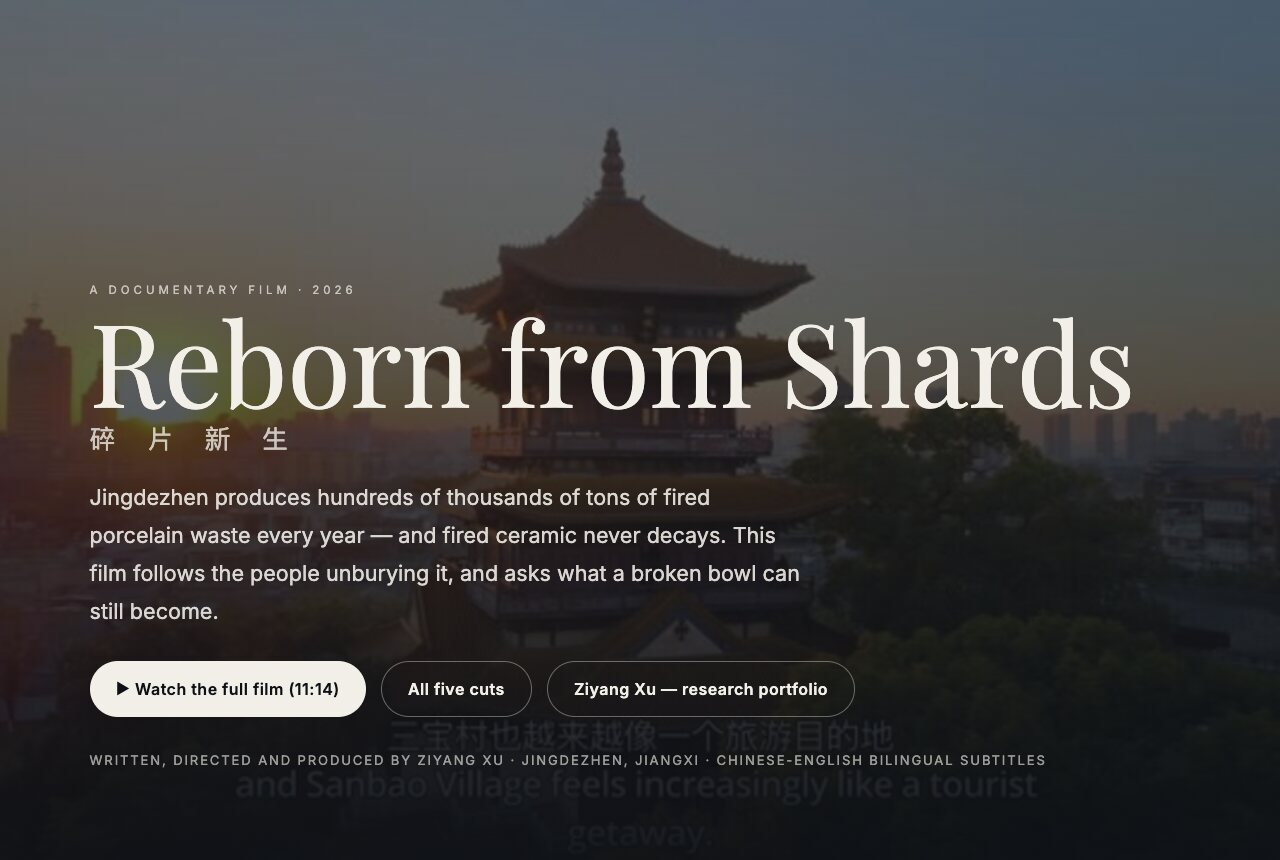
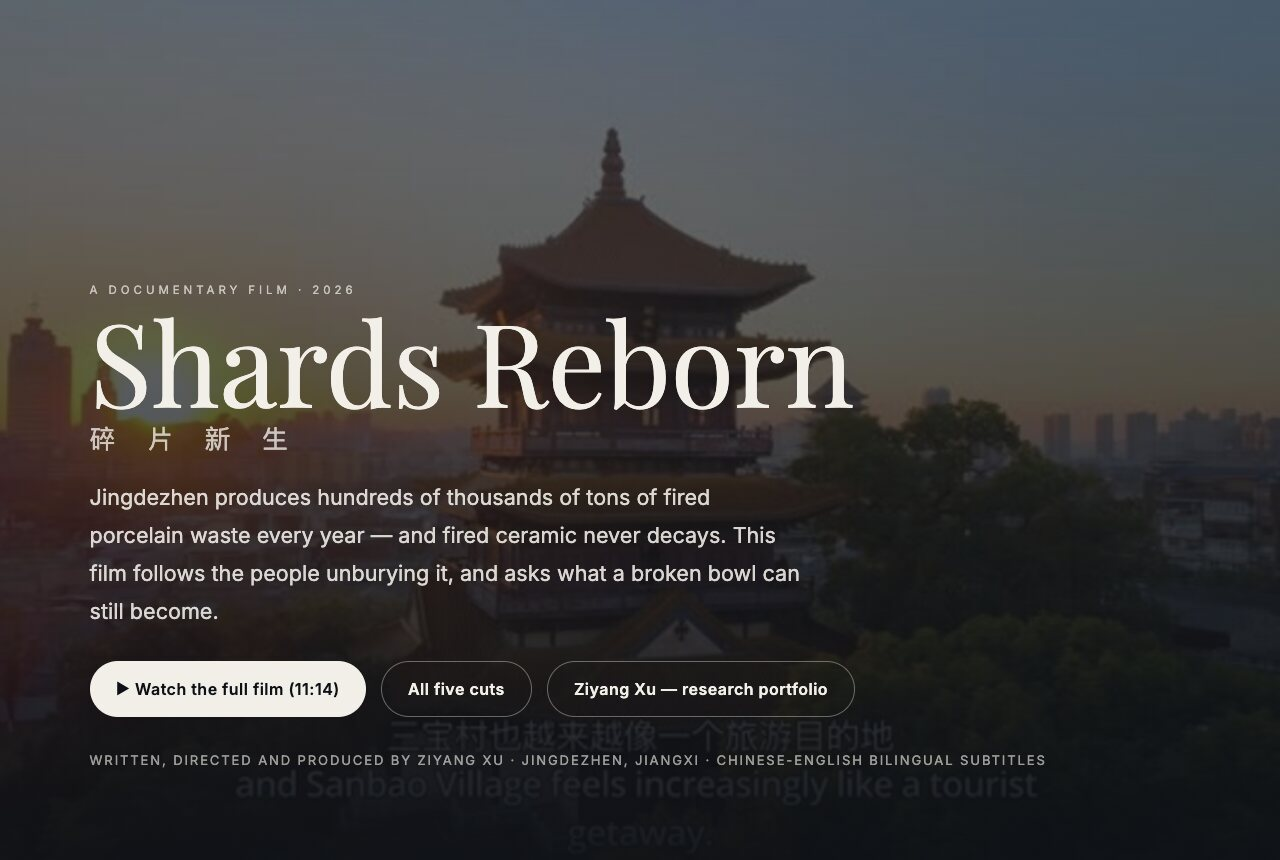
Follow the film rename and its new site URL

Changed region(s): [[0.0625, 0.3628, 0.9062, 0.4837]]

diff --git a/README.md b/README.md
@@ -112,11 +112,11 @@ apart. I wrote it because I spend my time building exactly the tools it is about
 <a id="on-film—reborn-from-shards"></a>
 <a id="on-film-reborn-from-shards"></a>
 
-### On film — Reborn from Shards
+### On film — Shards Reborn
 
-[![Reborn from Shards — the documentary site: a documentary film by Ziyang Xu, shot in Jingdezhen](https://raw.githubusercontent.com/jerryxugit-2026/jerryxugit-2026/main/assets/film-site-hero.jpg)](https://jerryxugit-2026.github.io/Film-Reborn-from-Shards/)
+[![Shards Reborn — the documentary site: a documentary film by Ziyang Xu, shot in Jingdezhen](https://raw.githubusercontent.com/jerryxugit-2026/jerryxugit-2026/main/assets/film-site-hero.jpg)](https://jerryxugit-2026.github.io/Film-Shards-Reborn/)
 
-**[▶ Enter the documentary site — Reborn from Shards](https://jerryxugit-2026.github.io/Film-Reborn-from-Shards/)** ·
+**[▶ Enter the documentary site — Shards Reborn](https://jerryxugit-2026.github.io/Film-Shards-Reborn/)** ·
 **[▶ Watch the full film (11:14)](https://youtu.be/Ucu1jr4pBH8)** ·
 **[▶ All four cuts](https://youtube.com/playlist?list=PLT7qnD3BIifg&si=j4C-_Ec37VkbrBwI)**
 
@@ -144,10 +144,10 @@ interested in the crooked rim of a hand-made pot.
   studio experiment on its own: crushing shards, sieving the powder twice, mixing
   two grain sizes at three ratios, and firing 120 test specimens to find that 20
   survive.
-- **[Reborn from shards — Full version (11:14)](https://youtu.be/Ucu1jr4pBH8)** —
+- **[Shards Reborn — Full version (11:14)](https://youtu.be/Ucu1jr4pBH8)** —
   the complete documentary: the city and its buried waste, Yi Design and Xun
   Studio, and what happens after porcelain breaks.
-- **[Reborn from shards— Editor Choice Version](https://youtu.be/wH9gUHj6f7Y)** —
+- **[Shards Reborn— Editor Choice Version](https://youtu.be/wH9gUHj6f7Y)** —
   a second cut of the same story, released as a YouTube premiere.
 - **[Holding You Together](https://youtu.be/0J-txgJ3L_c)** — the installation the
   reclaimed material ends up in: a fractured mother of collected shards holding a
